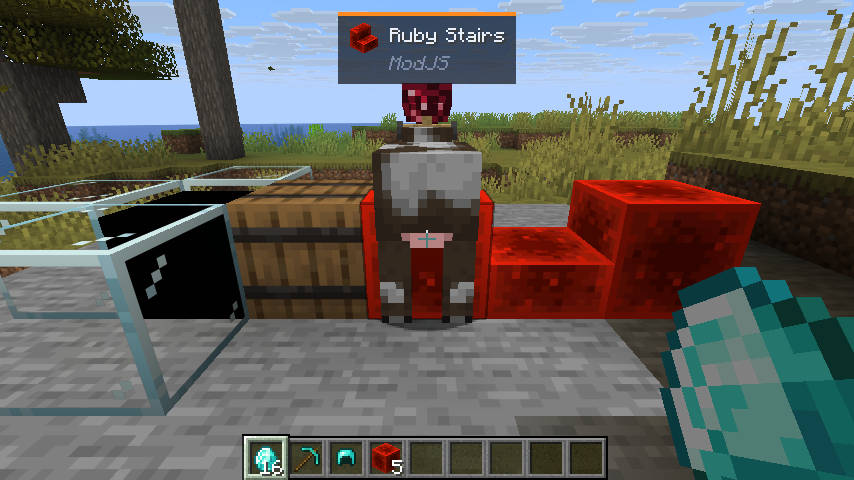
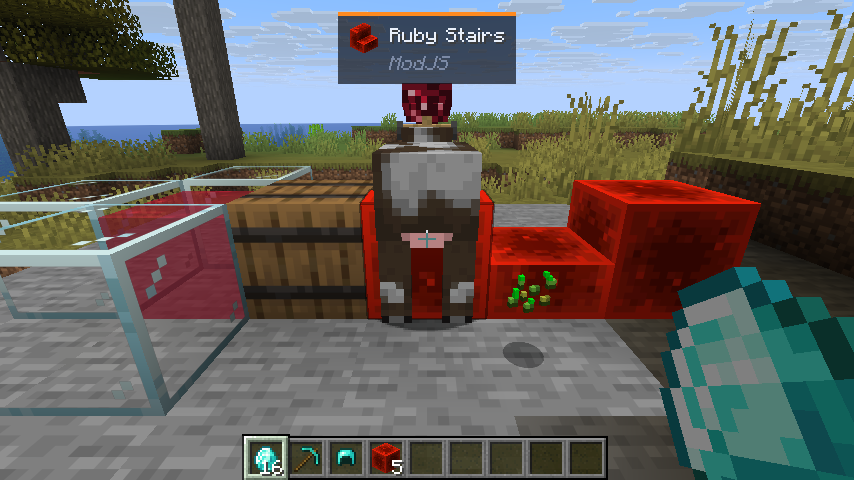
Forge 26.x: draw script fluids with tinted water via a fluid model

Changed region(s): [[0.0913, 0.375, 0.3044, 0.6875], [0.5785, 0.5625, 0.6698, 0.6562], [0.5785, 0.7188, 0.6393, 0.7812]]

diff --git a/forge-26.1.2/src/main/java/com/itmecasey/modjs/registry/FluidModels.java b/forge-26.1.2/src/main/java/com/itmecasey/modjs/registry/FluidModels.java
@@ -1,0 +1,51 @@
+package com.itmecasey.modjs.registry;
+
+import net.minecraft.client.color.block.BlockTintSource;
+import net.minecraft.client.renderer.block.FluidModel;
+import net.minecraft.client.resources.model.sprite.Material;
+import net.minecraft.resources.Identifier;
+import net.minecraft.world.level.block.state.BlockState;
+import net.minecraft.world.level.material.Fluid;
+import net.minecraftforge.client.event.ModelEvent;
+import net.minecraftforge.eventbus.api.bus.BusGroup;
+import net.minecraftforge.registries.RegistryObject;
+
+import java.util.List;
+
+/**
+ * Forge 26 draws fluids from fluid models. A script fluid gets the vanilla water textures tinted with its color, which is what
+ * the older client extension did. Kept apart from {@link FluidRegistry} because it names client-only classes: it is only
+ * loaded on a client.
+ */
+final class FluidModels {
+    record Entry(RegistryObject<? extends Fluid> source, RegistryObject<? extends Fluid> flowing, int color) {
+    }
+
+    private FluidModels() {
+    }
+
+    static void register(BusGroup modBus, List<Entry> entries) {
+        if (entries.isEmpty()) {
+            return;
+        }
+        ModelEvent.BakeFluidModels.BUS.addListener(event -> {
+            for (Entry entry : entries) {
+                int color = 0xFF000000 | entry.color();
+                BlockTintSource tint = new BlockTintSource() {
+                    @Override
+                    public int color(BlockState state) {
+                        return color;
+                    }
+                };
+                FluidModel.Unbaked model = new FluidModel.Unbaked(
+                    new Material(Identifier.withDefaultNamespace("block/water_still")),
+                    new Material(Identifier.withDefaultNamespace("block/water_flow")),
+                    new Material(Identifier.withDefaultNamespace("block/water_overlay")),
+                    tint);
+                FluidModel baked = model.bake(event.materials(), () -> "modjs fluid");
+                event.register(entry.source().get(), baked);
+                event.register(entry.flowing().get(), baked);
+            }
+        });
+    }
+}

diff --git a/forge-26.2/src/main/java/com/itmecasey/modjs/registry/FluidModels.java b/forge-26.2/src/main/java/com/itmecasey/modjs/registry/FluidModels.java
@@ -1,0 +1,51 @@
+package com.itmecasey.modjs.registry;
+
+import net.minecraft.client.color.block.BlockTintSource;
+import net.minecraft.client.renderer.block.FluidModel;
+import net.minecraft.client.resources.model.sprite.Material;
+import net.minecraft.resources.Identifier;
+import net.minecraft.world.level.block.state.BlockState;
+import net.minecraft.world.level.material.Fluid;
+import net.minecraftforge.client.event.ModelEvent;
+import net.minecraftforge.eventbus.api.bus.BusGroup;
+import net.minecraftforge.registries.RegistryObject;
+
+import java.util.List;
+
+/**
+ * Forge 26 draws fluids from fluid models. A script fluid gets the vanilla water textures tinted with its color, which is what
+ * the older client extension did. Kept apart from {@link FluidRegistry} because it names client-only classes: it is only
+ * loaded on a client.
+ */
+final class FluidModels {
+    record Entry(RegistryObject<? extends Fluid> source, RegistryObject<? extends Fluid> flowing, int color) {
+    }
+
+    private FluidModels() {
+    }
+
+    static void register(BusGroup modBus, List<Entry> entries) {
+        if (entries.isEmpty()) {
+            return;
+        }
+        ModelEvent.BakeFluidModels.BUS.addListener(event -> {
+            for (Entry entry : entries) {
+                int color = 0xFF000000 | entry.color();
+                BlockTintSource tint = new BlockTintSource() {
+                    @Override
+                    public int color(BlockState state) {
+                        return color;
+                    }
+                };
+                FluidModel.Unbaked model = new FluidModel.Unbaked(
+                    new Material(Identifier.withDefaultNamespace("block/water_still")),
+                    new Material(Identifier.withDefaultNamespace("block/water_flow")),
+                    new Material(Identifier.withDefaultNamespace("block/water_overlay")),
+                    tint);
+                FluidModel baked = model.bake(event.materials(), () -> "modjs fluid");
+                event.register(entry.source().get(), baked);
+                event.register(entry.flowing().get(), baked);
+            }
+        });
+    }
+}

diff --git a/forge-26.3/src/main/java/com/itmecasey/modjs/registry/FluidModels.java b/forge-26.3/src/main/java/com/itmecasey/modjs/registry/FluidModels.java
@@ -1,0 +1,51 @@
+package com.itmecasey.modjs.registry;
+
+import net.minecraft.client.color.block.BlockTintSource;
+import net.minecraft.client.renderer.block.FluidModel;
+import net.minecraft.client.resources.model.sprite.Material;
+import net.minecraft.resources.Identifier;
+import net.minecraft.world.level.block.state.BlockState;
+import net.minecraft.world.level.material.Fluid;
+import net.minecraftforge.client.event.ModelEvent;
+import net.minecraftforge.eventbus.api.bus.BusGroup;
+import net.minecraftforge.registries.RegistryObject;
+
+import java.util.List;
+
+/**
+ * Forge 26 draws fluids from fluid models. A script fluid gets the vanilla water textures tinted with its color, which is what
+ * the older client extension did. Kept apart from {@link FluidRegistry} because it names client-only classes: it is only
+ * loaded on a client.
+ */
+final class FluidModels {
+    record Entry(RegistryObject<? extends Fluid> source, RegistryObject<? extends Fluid> flowing, int color) {
+    }
+
+    private FluidModels() {
+    }
+
+    static void register(BusGroup modBus, List<Entry> entries) {
+        if (entries.isEmpty()) {
+            return;
+        }
+        ModelEvent.BakeFluidModels.BUS.addListener(event -> {
+            for (Entry entry : entries) {
+                int color = 0xFF000000 | entry.color();
+                BlockTintSource tint = new BlockTintSource() {
+                    @Override
+                    public int color(BlockState state) {
+                        return color;
+                    }
+                };
+                FluidModel.Unbaked model = new FluidModel.Unbaked(
+                    new Material(Identifier.withDefaultNamespace("block/water_still")),
+                    new Material(Identifier.withDefaultNamespace("block/water_flow")),
+                    new Material(Identifier.withDefaultNamespace("block/water_overlay")),
+                    tint);
+                FluidModel baked = model.bake(event.materials(), () -> "modjs fluid");
+                event.register(entry.source().get(), baked);
+                event.register(entry.flowing().get(), baked);
+            }
+        });
+    }
+}

diff --git a/forge-26.1.2/src/main/java/com/itmecasey/modjs/registry/FluidRegistry.java b/forge-26.1.2/src/main/java/com/itmecasey/modjs/registry/FluidRegistry.java
@@ -63,6 +63,8 @@ final class FluidRegistry {
         }
     }
 
+    private static final java.util.List<FluidModels.Entry> MODELS = new java.util.ArrayList<>();
+
     static void register(BusGroup modBus, DeferredRegister<Block> blocks, DeferredRegister<Item> items, java.util.List<ContentRegistry.TabEntry> tabEntries) {
         for (FluidBuilderJS builder : RegistryManager.fluids()) {
             FluidBuilderJS b = builder;
@@ -83,6 +85,7 @@ final class FluidRegistry {
             RegistryObject<FlowingFluid> source = FLUIDS.register(b.id(), () -> new ForgeFlowingFluid.Source(props[0]));
             RegistryObject<FlowingFluid> flowing = FLUIDS.register(b.id() + "_flowing", () -> new ForgeFlowingFluid.Flowing(props[0]));
             holder[0] = source;
+            MODELS.add(new FluidModels.Entry(source, flowing, b.color()));
             props[0] = new ForgeFlowingFluid.Properties(type, source, flowing).block(() -> (LiquidBlock) block.get());
             if (bucketRef != null) {
                 props[0].bucket(bucketRef);
@@ -90,6 +93,9 @@ final class FluidRegistry {
         }
         TYPES.register(modBus);
         FLUIDS.register(modBus);
+        if (net.minecraftforge.fml.loading.FMLEnvironment.dist == net.minecraftforge.api.distmarker.Dist.CLIENT) {
+            FluidModels.register(modBus, MODELS);
+        }
     }
 
     @SuppressWarnings("unchecked")

diff --git a/forge-26.2/src/main/java/com/itmecasey/modjs/registry/FluidRegistry.java b/forge-26.2/src/main/java/com/itmecasey/modjs/registry/FluidRegistry.java
@@ -63,6 +63,8 @@ final class FluidRegistry {
         }
     }
 
+    private static final java.util.List<FluidModels.Entry> MODELS = new java.util.ArrayList<>();
+
     static void register(BusGroup modBus, DeferredRegister<Block> blocks, DeferredRegister<Item> items, java.util.List<ContentRegistry.TabEntry> tabEntries) {
         for (FluidBuilderJS builder : RegistryManager.fluids()) {
             FluidBuilderJS b = builder;
@@ -83,6 +85,7 @@ final class FluidRegistry {
             RegistryObject<FlowingFluid> source = FLUIDS.register(b.id(), () -> new ForgeFlowingFluid.Source(props[0]));
             RegistryObject<FlowingFluid> flowing = FLUIDS.register(b.id() + "_flowing", () -> new ForgeFlowingFluid.Flowing(props[0]));
             holder[0] = source;
+            MODELS.add(new FluidModels.Entry(source, flowing, b.color()));
             props[0] = new ForgeFlowingFluid.Properties(type, source, flowing).block(() -> (LiquidBlock) block.get());
             if (bucketRef != null) {
                 props[0].bucket(bucketRef);
@@ -90,6 +93,9 @@ final class FluidRegistry {
         }
         TYPES.register(modBus);
         FLUIDS.register(modBus);
+        if (net.minecraftforge.fml.loading.FMLEnvironment.dist == net.minecraftforge.api.distmarker.Dist.CLIENT) {
+            FluidModels.register(modBus, MODELS);
+        }
     }
 
     @SuppressWarnings("unchecked")

diff --git a/forge-26.3/src/main/java/com/itmecasey/modjs/registry/FluidRegistry.java b/forge-26.3/src/main/java/com/itmecasey/modjs/registry/FluidRegistry.java
@@ -63,6 +63,8 @@ final class FluidRegistry {
         }
     }
 
+    private static final java.util.List<FluidModels.Entry> MODELS = new java.util.ArrayList<>();
+
     static void register(BusGroup modBus, DeferredRegister<Block> blocks, DeferredRegister<Item> items, java.util.List<ContentRegistry.TabEntry> tabEntries) {
         for (FluidBuilderJS builder : RegistryManager.fluids()) {
             FluidBuilderJS b = builder;
@@ -83,6 +85,7 @@ final class FluidRegistry {
             RegistryObject<FlowingFluid> source = FLUIDS.register(b.id(), () -> new ForgeFlowingFluid.Source(props[0]));
             RegistryObject<FlowingFluid> flowing = FLUIDS.register(b.id() + "_flowing", () -> new ForgeFlowingFluid.Flowing(props[0]));
             holder[0] = source;
+            MODELS.add(new FluidModels.Entry(source, flowing, b.color()));
             props[0] = new ForgeFlowingFluid.Properties(type, source, flowing).block(() -> (LiquidBlock) block.get());
             if (bucketRef != null) {
                 props[0].bucket(bucketRef);
@@ -90,6 +93,9 @@ final class FluidRegistry {
         }
         TYPES.register(modBus);
         FLUIDS.register(modBus);
+        if (net.minecraftforge.fml.loading.FMLEnvironment.dist == net.minecraftforge.api.distmarker.Dist.CLIENT) {
+            FluidModels.register(modBus, MODELS);
+        }
     }
 
     @SuppressWarnings("unchecked")

diff --git a/PROJECT_STATUS.md b/PROJECT_STATUS.md
@@ -60,7 +60,7 @@ Spend: none
 - [x] Forge 26.x and 1.21.1 clients could not open a world (the jar-shipped ore biome modifier flagged it experimental, a confirmation screen waited): modifier now generated only when Unify.ores() is on, seen on a real client on all four builds (w:4)
 - [x] NeoForge 26.x client load crashes fixed on 26.1.2, 26.2 and 26.3 (toast manager created before the game instance exists; missing client payload handler), seen on a real client; tab items no longer added twice on all ten builds (w:3)
 - [x] Release 2026.11.26 prepared locally for all ten builds: versions bumped, changelog, README and CurseForge text, wiki pages written (not tagged or uploaded) (w:2)
-- [x] NeoForge 26.x script fluids drawn with tinted water (a fluid model) instead of the pink missing texture, seen on a real client on 26.3, 26.2 and 26.1.2 (w:2)
+- [x] Script fluids on Forge and NeoForge 26.x drawn with tinted water (a fluid model) instead of the missing texture, seen on a real client on all six builds (w:2)
 - [ ] Close the per-version gaps in docs/PORTING.md: EMI, REI, JEI on 26.1.2, F3 lines on NeoForge 26.1.2, item rarity changes on 1.20.1 (w:3)
 
 ## Testing and release

diff --git a/CHANGELOG.md b/CHANGELOG.md
@@ -2,9 +2,9 @@
 
 ## 2026.11.27
 
-NeoForge 26.3, 26.2 and 26.1.2 only; the other seven builds stay at 2026.11.26.
+Forge and NeoForge 26.3, 26.2 and 26.1.2 (six builds); the other four builds stay at 2026.11.26.
 
-- **Fix: fluids registered by scripts were drawn as the pink missing texture on NeoForge 26.x.** They now use the vanilla water
+- **Fix: fluids registered by scripts were drawn as the pink-and-black missing texture on Forge and NeoForge 26.x.** They now use the vanilla water
   textures tinted with the fluid's color, as on the older versions.
 - Checked on a real client on every build: the `/modjs hand`, `toolbar`, `inventory` and `reload` commands (a script added while the game ran
   is picked up by the reload), a player death, and one example script that registers every kind of content (`examples/registry`).
